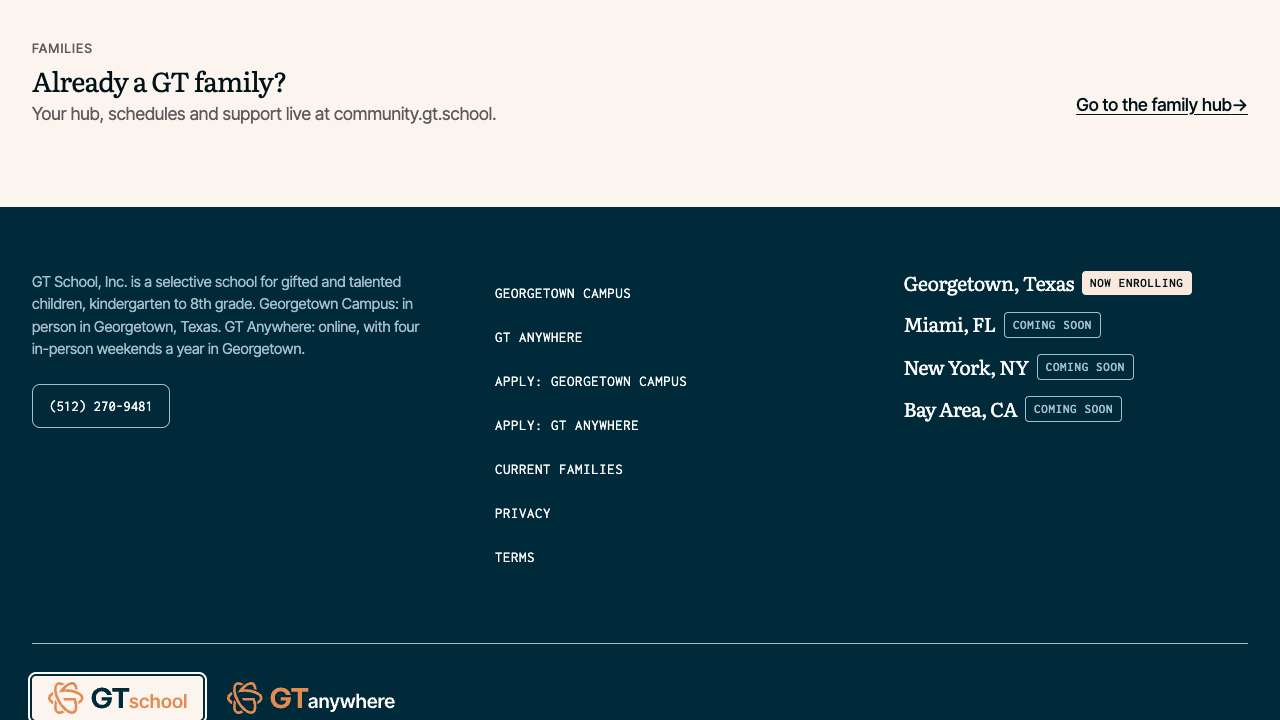
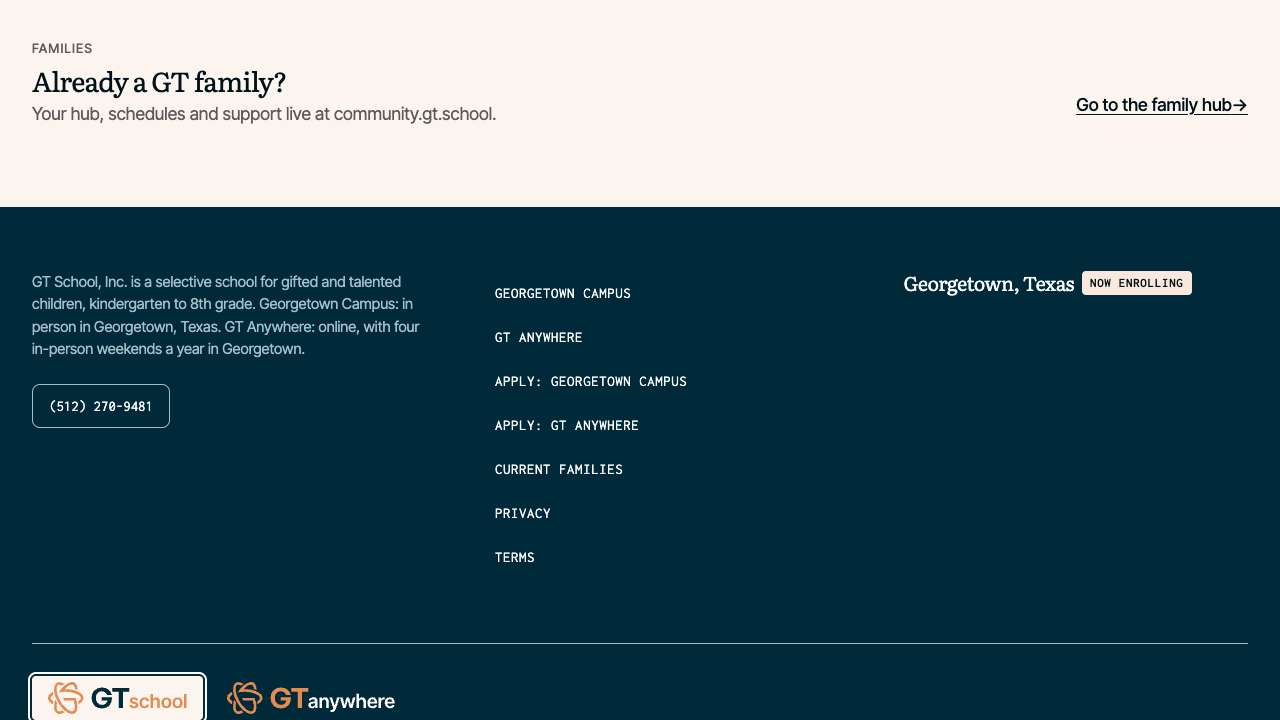
fix(mocks): M05 withholds the three unconfirmed campus cities
The copy deck grants those city names on Nari's confirmation, not pending it, and this page
is what she is shown at the gate, so rendering them would have put three campus claims in
front of her as though the page had already taken that position. The markup names the rows
and the single condition for restoring them.

Changed region(s): [[0.6875, 0.4278, 0.875, 0.5194], [0.6875, 0.55, 0.875, 0.5806]]

diff --git a/0_plan/mockups/M05-front-door-of-the-estate/index.html b/0_plan/mockups/M05-front-door-of-the-estate/index.html
@@ -330,9 +330,12 @@
     <div class="footer-col footer-col--locations">
       <ul class="locations" aria-label="Locations">
         <li class="location"><span class="location-name">Georgetown, Texas</span><span class="chip">Now enrolling</span></li>
-        <li class="location"><span class="location-name">Miami, FL</span><span class="chip chip--soon">Coming soon</span></li>
-        <li class="location"><span class="location-name">New York, NY</span><span class="chip chip--soon">Coming soon</span></li>
-        <li class="location"><span class="location-name">Bay Area, CA</span><span class="chip chip--soon">Coming soon</span></li>
+        <!-- The three coming-soon cities gt.school's footer publishes today (Miami FL, New York NY, Bay Area CA)
+             are withheld here. copy.md section 9 grants them ON Nari's confirmation, not pending it, and this page
+             is what she is shown at G1: rendering them would put three campus claims in front of her as though
+             they were already the school's position on this page. Restore the three <li> rows above this comment
+             once the confirmation is recorded in the rationale. The N-campus pattern is still demonstrated, since
+             the list, its status chip and its type are all in place around Georgetown. -->
       </ul>
     </div>
 

diff --git a/0_plan/ensemble/critic-fable-M05.md b/0_plan/ensemble/critic-fable-M05.md
@@ -1,0 +1,159 @@
+# Design critic, Fable, M05 Front Door of the Estate, 2026-09-11
+
+Independent: `ensemble/critic-astra-M05.md` was not opened and no other current card for this mock was read. Scored
+against `17` section 6 with R15 applied, and against `mockups/shared/CONTINUITY.md` for the Continuity row, which
+has rendered evidence for the Anywhere half of the estate and none for Georgetown. Inputs read in full:
+`ensemble/prompts/DESIGN-CRITIC.md`, `kb/briefs/M05.md`, `kb/briefs/CONTRACT.md` v2.1,
+`mockups/shared/CONTINUITY.md`, `copy.md` v1.1, `tokens-v2.css`, `fonts.css`, `BUILDER-BRIEF.md`, `17` sections 4,
+6 and 7, `kb/CONCEPTS.md` Avoid rows, `07` rows DD-41 to DD-47, K3 sections 5e and 5f, K12 F64/F65/G27, the mock's
+`index.html`, `styles.css`, `RATIONALE.md`, `qa/fold.md`, `qa/measure.md`, `qa/M05-measure.mjs`, and **every one of
+the 31 captures in `qa/`**. For the Continuity row I also viewed the four estate captures and `measurements.json`
+in `kb/exemplars/estate/` — the repository's own mirror, never a production host.
+
+Evidence marked **my probe** is work I did myself, outside the repository: both checkers re-run read-only, and a
+parse of the two Literata TTFs in `assets/cdn.prod.website-files.com/697d45ef94e91c0acce00654/` (sfnt table
+directory, `head`, `hhea`, `cmap` format 4, `hmtx`) to test the rationale's metric claim. Nothing in the repository
+was changed except this file. No browser tool was used and no GT hostname was opened.
+
+| Rubric row | Score 1 to 5 | Evidence you looked at (screenshot filename, crop, measurement) | What would make it a 5 |
+|---|---|---|---|
+| Objective | **5** | A parent separates in person from online before reading a sentence, at both required widths. At 390 (`V3.jpg`): the two doors stack with their labels set as the discriminator — `IN PERSON` with a door glyph, `ONLINE` with a screen glyph (`index.html:63, 72`) — then the school name in Literata and a navy CTA naming its own destination; CTA bottoms 432 and 557 of a 640 limit (`qa/fold.md` V3). At 1280 by 720 (`V14.jpg`): the same two doors side by side, 6 and 6, each with its line inline, both CTAs on one baseline at 533 of 696. Both CTAs clear the limit at **all sixteen fold rows** (`qa/fold.md`), including the landscape row at 299 of 318 (`V10.jpg`) and the 360 row where the header wraps (`V1.jpg`, 601 of 716). Nothing is behind a menu at any width: there is no menu (`index.html:41–46`), which is the C20/C17 trap the brief names. Tab order is skip link, lockup, two utility links, Georgetown CTA, Anywhere CTA, compare anchor — one stop per door, the arrow `aria-hidden`. The compare route is below the fold at V14 and V15 (783 to 844 against 720, `RATIONALE.md:124`); I score that under Composition and Brief compliance, because the row's own question — tell the two apart and act — is answered at both required widths with room to spare | Holds |
+| Composition | **4** | The first screen is a real grid: 12 columns from 768, h1 and provenance at 8, the door list at 12 as two 6-column cards opened by one hairline (`styles.css:70–73, 98–100`), the diagram spanning 12, a consistent space scale, and the container capped at `90rem` so 1920 does not stretch (`V17.jpg`, 240px of margin each side). The door cards are equal-height grid items with `margin-top: auto` on the CTA (`styles.css:111`), so at V13 the Georgetown line runs three lines and the Anywhere line two and both buttons still sit at 535 (`V13.jpg`, `qa/fold.md`) — DD-26 parity by construction. Four things hold it at 4. (i) **The top right is empty at every desktop row**: at 1440 the h1 block ends at x≈700 and nothing occupies the ~700 by 240 band beside it (`V16.jpg`); at 1920 it is ~710 wide (`V17.jpg`). (ii) **The 12-column grid is a first-screen grid only.** In `V14-full.jpg` the steps list, the connect list, the TEFA module and the families line are each a single left column capped at `--measure-prose` (`styles.css:225, 235, 240`), so four consecutive bands use the left half of a 1280 canvas with nothing opposite; only the proof strip goes to two columns and only the table goes full width. (iii) **The peers band is under-filled**: `peers-1440.jpg`, two plates 674 by 122 each carrying a 32px mark and one 16px label, about 60 percent empty — this is where the photographed state's 3:2 thumbnail would go (`RATIONALE.md:213`), so the default state leaves the band thin. (iv) At V14 and V15 the first screen the brief describes is not delivered: the diagram is cut mid-band and the compare anchor falls below the fold (`V14.jpg`, `V15.jpg`) | Three changes, in order. (a) Swap `.diagram` and `.compare-lead` order below 1440 (`styles.css:84` already does the reverse swap at 768) so the anchor lands on the first screen at V11 to V15 and the diagram becomes the cut element it already is — cost nothing, and it matches the brief's own phone order. (b) Give the desktop rows a second column where content exists: the connect list in two columns as the proof strip already is (`styles.css:232`), or the TEFA module beside the repeated doors. (c) Tighten the peer plates to their content, or hold them at this height only once the photograph lands |
+| Typography | **4** | The most deliberate type in the programme. Three faces, three jobs, every step from the clamp; h1 Literata **300** at `--text-3xl` with `-0.027em` and `max-width: 35ch` (`styles.css:86`), measured at 6 lines / 188px at V2, 5 / 161 at V5, 4 / 199 at V14, 4 / 212 at V16 (`qa/measure.md`); door names Literata `--text-xl`; prose at `--leading-prose` 1.5; labels Inter Tight 500 uppercase 0.08em; buttons and utility links Inconsolata 600 uppercase, which is the estate's own chrome voice (`anywhere-header-1440.jpg`, MENU and BEGIN APPLICATION) and which the contract's label row explicitly allows a brief to keep (`CONTRACT.md:37`). The italic turn at the sentence hinge is the estate's own mechanism reproduced by the estate's own means: `fonts.css:4` registers Literata italic at 400 only, so `.h1-turn { font-style: italic; font-weight: 400 }` inside a 300 h1 lands exactly where `measurements.json` puts the live page's span (`V16.jpg`, `V14.jpg`). The run-in door lines carry a visually hidden colon inside the `<b>` (`index.html:84`), which gives AT the separator without touching the visible copy string — better than the gated mock managed. **One defect, and it is the one M09 was required to fix**: at V14 the GT Anywhere door line breaks after the hyphen — "…and four in-" / "person weekends a year in Georgetown." (`V14.jpg`, right column). It is V14 only; V11, V12, V13, V15, V16 and V17 all break before "in-person". Second, minor: at V2 to V4 the `&nbsp;` binding "from anywhere" leaves line 5 ("Texas campus or") about 40 percent of the measure while line 4 runs full (`V2.jpg`) — a rag step, not an orphan | Bind "in-person" with a `white-space: nowrap` span, exactly as M09 did, leaving the copy string untouched. Re-check the phone rag once the nbsp and `text-wrap: balance` are resolved together |
+| Imagery | **5** | No photograph, by decision, and the decision is stated rather than defaulted (`RATIONALE.md:212`: every file in `ASSETS.md` shows identifiable children on the 2026-09-11 re-check, AD-11 covers child imagery either way, RF-25 is unsigned). What is on the page is measured: the runner reads **ten mark instances** at 27px at 390 and 32px at 1440 with **0 percent aspect skew** (`qa/fold.md`, Mark geometry), which is K12 V2 met at both ends — the defect `CONTINUITY.md` lines 86–94 recorded against six other mocks. Each mark is only ever on its permitted panel: GT School on `--color-bg` plates (`styles.css:269`), GT Anywhere on navy with the footer itself as its panel (`styles.css:270`), per `copy.md` section 8 and checker R16. The two door glyphs are `currentColor` line drawings, `aria-hidden`, with the label word beside each carrying the meaning (`index.html:63, 72`) — no icon carries information alone. The photographed state is fully specified rather than promised: file, crop, `object-position: 50% 45%`, the 720px DPR-2 ceiling from `CONTRACT.md` section 5, the caption from `copy.md` section 9, and DD-42 parity (`RATIONALE.md:213`). The one imagery defect that existed was found by eye and fixed: the GT Anywhere mark's white lettering vanished on a forced `Canvas` ground, and its two panels now keep their own colour under a narrow `forced-color-adjust: none` (`styles.css:298`, visible working in `forced-colors-peers.jpg`) | Holds. When RF-25 lands, build the band's 3:2 figure and re-check the crop at 375 and 600; the parity problem (no GT Anywhere photograph exists) is named, not papered over |
+| Color and surface | **4** | Zero raw hex in 300 lines of CSS (**my probe**: `grep -o '#[0-9a-fA-F]\{3,8\}' styles.css` returns 0), every colour a token, and a contrast table I recomputed from `tokens-v2.css` — all eighteen text pairings in `RATIONALE.md:221–232` reproduce to 0.01 (17.69, 16.10, 16.30, 6.25, 5.69, 14.58, 7.81, 5.14, 8.20, 3.31, 13.88, 12.63). `--color-accent-text` on the step numerals and `--color-text-muted-on-dark` on the footer facts are the DD-39 roles used correctly; the status chip is `--color-text` on `--color-surface` at 16.10 on a navy ground at 12.63, never gold text (RF-37) — `focus-footer.jpg` shows it working. Focus: the single ring on light (`focus-cta.jpg`, `focus-plate.jpg`) and K3's two-colour ring on every straddling element (`focus-footer.jpg`, `focus-footer-plate.jpg`, `styles.css:43`). Forced colours applies M07's lesson before a critic asked: the block is **last in source order** (`styles.css:282`), one `CanvasText` outline per band and never a stroke per segment, so no rule crosses a label (`forced-colors-1440.jpg`, `forced-colors-peers.jpg`). Three things hold it at 4. (i) **At V14 and V15 the first screen carries no accent at all**: the page's one accent event is the four weekend marks, and the band holding them is cut by the viewport (`V14.jpg`, `V15.jpg`), so the brief's "one accent use per screen … at V14 and V16" is delivered only at V16. (ii) **The diagram's bands have no perceivable edge.** `.bar-g` is `--color-bg` on a `--color-surface` card and `.bar-a` is `--color-anywhere-tint` on the same card (`styles.css:159–160`); **my probe** computes those at **1.10:1** and **1.01:1** — the bands are separable by hue only, and by luminance the Georgetown strips are all but absent (`V16.jpg`, `V13.jpg`, `peers-1440.jpg`). Neither pairing appears in the rationale's contrast table. (iii) That asymmetry costs the two schools parity inside the one component this direction invents: the Anywhere row reads as a filled blue block and the Georgetown row as a ghost, which is the opposite of the DD-26 discipline the doors and the plates observe | (a) Give both band families the same 1px `--color-border-strong` edge (3.31 on `--color-surface`), which makes the band a perceivable object and equalises the two schools in one change. (b) State the accent budget per row, not per page: at V14 and V15 either accept that the first screen has no accent and say so, or let the compare rule carry it there, which is the brief's own phone reasoning applied to the rows where the marks fall below the fold. (c) See the Continuity row on `--color-accent-text` and the headline |
+| Motion | **5** | There is no motion and I verified it rather than reading it. **My probe**: `grep -c 'transition:' styles.css` = **0**, `grep -c '@keyframes'` = **0**; the only movement declaration on the page is `scroll-behavior: smooth` inside `prefers-reduced-motion: no-preference` (`styles.css:25`), which is the contract's V10 anchor scroll and nothing else. The runner's reduced-motion pass reports every computed transition and animation duration at 0s on elements and pseudo-elements at V14 (`qa/fold.md`). The stillness is argued, not defaulted: the brief says "Still. The diagram does not draw", the contract offers V8 for exactly this component, and the rationale declines it with the reason that the shell's argument is that it is already whole (`RATIONALE.md:199–200`). Every state is visible at rest — the door lines are `display: block` at 768 and above and moved below both CTAs on phones (`styles.css:110, 116`), never hover-gated, which is stricter than the contract's V2 permission. No script beyond one JSON-LD block (**my probe**: `grep -c '<script'` = 1), so nothing here assumes D-039 | Holds |
+| Mission and exclusivity | **5** | The page reads as the serious option because it spends its space on the deck's own facts in the deck's own order. Selectivity is a bar in three places — the Admissions row, the proof strip's first fact, the steps line (`V14-full.jpg`) — and never a price: tuition and access share one table row at one weight, Georgetown reads "Tuition on request. Ask admissions." (`index.html:229`), and there is no countdown, crest, seal, scarcity device or wealth cue in any of the 31 captures. The proof strip is exactly `copy.md` section 4's four facts with the sources line verbatim, repeated under the table as the deck requires (`index.html:234, 259`). **My probe** re-ran `check-claims.py`: six figures, every one with a register row, all six Unverified and public, matching the rationale's pasted block verbatim — and the statuses are in the rationale, never on the page. No outcome figure and no accreditation claim, on the page or in the JSON-LD (`index.html:17–29`), which is G0.5 items 2 and 3 kept. The one thing on the page the deck does not yet authorise is the three coming-soon cities; it is a copy-authorisation defect rather than a mission one, and I take it up in Brief compliance | Holds, subject to required fix 6 |
+| Craft | **4** | `check-mocks.py` re-run by me: **36 pass, 0 fail**; `check-claims.py`: OK — both reproduce the rationale's pasted output exactly. Sixteen fold rows, sixteen passes; no horizontal scroll at 320 (`V18.jpg`) nor with the root font doubled at 375 (`V2-rootx2.jpg`, header stacked, nothing clipped, `scrollWidth 375 of 375` in `qa/measure.md`); console clean on every row; zero `vh`; every SVG label inside its band at eight widths (`qa/measure.md`, 32 rows, "Overflows: no"). Four defects were found by eye during the build and fixed, including the one that matters most — the diagram's first form read as empty form fields, and square strips with a 3px navy opening tick replaced it (`RATIONALE.md:263`, and the result in `V16.jpg`). Three things hold it at 4. (i) **The CTA arrow detaches when the label wraps.** `.btn` is an `inline-flex` with the arrow as a separate flex child (`index.html:68`, `styles.css:198`), so at 360 the Georgetown label sets two lines and the arrow sits vertically centred at the far right, about 180px from "CAMPUS" (`V1.jpg`). The rationale's claim that the longest label "wraps cleanly below" 768 (`RATIONALE.md:43`) is contradicted by that capture. (ii) **A named capture does not show what it is named for.** `forced-colors-footer.jpg` shows the peers band and the comparison table, not the footer; so the footer's forced-colours state — the navy ground, the chips, the pill and the `forced-color-adjust: none` exception on `.mark-navy` (`styles.css:298`) — is not evidenced by any capture, and the rationale's claim that the mark defect was found "in the peers band and the footer" (`RATIONALE.md:236`) is half-supported. (iii) The header at 375 is the tightest row on the page: mark 117 plus links 96 and 108 plus an 8px gap is 329 of 343 inner width (`qa/measure.md`, Header row), and `V2.jpg` reads crowded. It fits at every row from 375 up, and the 25px clamp below 375 is declared | (a) Put the arrow in the text flow (a trailing `::after` on the label, or a nowrap span binding it to the last word) so it follows "CAMPUS" instead of floating to the edge. (b) Re-shoot the footer under forced colours and give the file the footer. (c) Optional: open the 375 header by a few pixels, or accept it and say the 14px of slack is intentional |
+| Continuity | **4** | **The strongest continuity execution in the programme, and I judged it against the mirror rather than the table.** Matched on rendered evidence: the ground `rgb(252, 244, 239)`, body colour `rgb(0, 17, 23)` and body face Inter Tight (`measurements.json`, both widths, against `tokens-v2.css`); the display face at the estate's own **Light** weight with a tight track and an italic turn built the way the live page builds it; the utility chrome in uppercase Inconsolata and the header ruled off the ground by a hairline (`anywhere-header-1440.jpg` beside `V16.jpg`); the primary action in the estate's own first-screen vocabulary — navy `rgb(0, 42, 58)` fill, near-white label, Inconsolata **16px**, uppercase, trailing arrow (`measurements.json` applyActions, against `styles.css:17, 198`); bordered contact pills and uppercase Inconsolata navigation in the footer (`anywhere-footer-1440.jpg` beside `focus-footer.jpg`); and gt.school's own three-column footer with its Locations list and status convention (K12 F64, F65, G27). Three of `CONTINUITY.md`'s five measured deltas are **closed** here — weight, tracking, button size — where the gated mock closed none; the two held are held for reasons I verified (`fonts.css:11–12` ships Inconsolata 400 and 600 only, so 500 is unclaimable; DD-46 is Complete with the contrast measurement behind it). Three things keep it off 5. (i) **An unnamed sixth delta: header height.** The estate's header rule sits at y≈93–96 at 1440 (`anywhere-header-1440.jpg`, `anywhere-home-1440-firstscreen.jpg`) and y≈75 at 390 (`anywhere-home-390-firstscreen.jpg`); M05's is **57 at every row from 375 up** (`qa/measure.md`). DD-12 explains the absent menu and CTA, not the 36–39px. On a direction whose own standard is that every measured delta gets a decision rather than a silence (`RATIONALE.md:14`), this one is silent. (ii) **The headline's colour turn is refused without considering the register's own middle path.** Refusing `--color-accent` at 2.38:1 is right and well sourced (K12 F88). But K3 section 5f's row for "large display type on a light surface" prescribes **`--color-accent-text` #a5501a**, which is 5.14:1 on `--color-bg` and already in `tokens-v2.css:61` — the estate's hue at an accessible lightness. The rationale's stated reason for near-black is that "the page's one accent is spent on the weekend marks" (`styles.css:89–90`), which is a budget argument about a different token, not a rejection of this one. (iii) **DD-47's own evidence requirement is unmet anywhere.** The row (Complete) asks for one rendered pair of the Anywhere first screen beside the landing at 390 and 1440, "filed once in `shared/`, not per mock". It is not in `mockups/shared/screenshots/` (I checked: only the M1–M5 galleries of 2026-09-10) and not in `qa/`. The rubric's own evidence column for this row is "side-by-side with the live sites"; I had to construct the comparison myself. **The Georgetown half is unverified and the rationale says so** (`RATIONALE.md:30`); `gt.school` has no mirror and the mock is not penalised for that | (a) File the DD-47 pair in `shared/` — the two estate captures beside `V16.jpg` and `V3.jpg`. It changes no pixel of the page and it is the evidence the decision asked for. (b) Add the header height as a sixth delta row and decide it. (c) Put `--color-accent-text` on the record for the h1's italic half: adopt it and move the weekend marks to `--color-navy` (they are already the tick's colour and the fact is in the sentence beside them), or decline it with the rendered pair as the reason. With those three the row is a 5 and the brief's acceptance is met |
+
+| Brief compliance | Sections the build departs from, with the rationale's stated reason and whether you accept it | Avoid concepts present (CONCEPTS.md id) | Verdict |
+|---|---|---|
+| Every brief section is built and the acceptance list is answered: the shell's header and footer use shared tokens only with a diff against `1_spec/04` section 3 (`RATIONALE.md:95–99`); every shell block carries a `data-component` naming its spec row (**my probe**: ten attributes, all nine names present in `1_spec/04` lines 50–62); the UAL band, the Tate list and the MoMA parity are borrowed as patterns, not implementations (no `href="#"`, no `80vh`, no accreditation copy); the status chip is 16.10 against its own surface; DD-38, DD-39, DD-41 and DD-45 are named with DD-46, DD-47, DD-42, DD-43, DD-21 and MN-16. **Departures, each with its stated reason and my ruling: (1) h1 at weight 300 and `-0.027em` instead of 400 and normal — ACCEPTED, see ruling A1 and A2. (2) Buttons at 16px instead of `--text-btn` — ACCEPTED, A5. (3) Utility links in Inconsolata — ACCEPTED; `CONTRACT.md:37` grants it to a brief that says so and this brief's thesis says so. (4) The phone rows' accent is the weekend marks, not the compare rule — ACCEPTED, C2. (5) The compact door rule extended to V5 — ACCEPTED; the counterfactual (723 of 691) is asserted rather than filed, but M12 made the same extension for the same arithmetic and the shipped row measures 528 of 691. (6) The h1 steps to `--text-2xl` at V10 — ACCEPTED; `CONTRACT.md:28` allows the step on that row. (7) The diagram renders as HTML blocks below 768 — ACCEPTED, C3. (8) Georgetown's morning phrase drops "in TimeBack blocks, with structured breaks" — ACCEPTED, C4. (9) The header wrap takes `--space-4` below 768 and the mark clamps to 25px between 360 and 374 — ACCEPTED; the arithmetic is in `qa/measure.md` and K12 V2 states its floor at 390, where the runner measures 27px. (10) The facts block is a paragraph, not a definition list — ACCEPTED; `copy.md` section 8 is a sentence run. (11) The Locations rows are not links — ACCEPTED and better than the estate, whose own row is a dead `href="#"` (K12 A13). (12) The compare anchor below the fold at V14 — ACCEPTED as a diagnosis, REJECTED as an endpoint: the cause is real (`CONTRACT.md:21` gives 199px where the brief's sum used 159) but the order swap in required fix 4 fixes it for nothing. (13) The footer's column headings dropped — ACCEPTED; neither "Navigate" nor "Contact" is in `copy.md`.** **One departure I do not accept: the three coming-soon cities ship without Nari's confirmation.** `copy.md` section 9 grants the city names and status strings on the explicit condition that "the coming-soon cities appear only with Nari's confirmation recorded in the rationale", and the brief repeats it; `RATIONALE.md:274` records the **absence** of confirmation and ships them anyway (`index.html:333–335`, visible in `V14-full.jpg` and `focus-footer.jpg`). The engineer is right that removing three `<li>` costs nothing, which is exactly why they should not be on the page before she answers | **None.** C05, C12, C13, C20, C29, C33, C34, C35, C36, C40 and C43 are all absent: no unsourced stat strip (the sources line is under both the table and the proof strip), no urgency bar, no overlay, neither school subordinated, the visually dominant headline **is** the markup h1, two real button-affordance CTAs on the first screen, no motion to guard, one scene at every width. **C18 is present and belongs to the brief, not the mock**: the compare anchor precedes the diagram below 768 and follows it above (`styles.css:84`), which is what the brief's Conversion row instructs, and the diagram's SVG-to-HTML change is `CONTRACT.md`-class behaviour that M07 resolved identically. C29 is not present but worth a figure for the director: the page is **7,540px at 390** (`qa/fold.md` V9) against M09's 6,679 — the longest routing page in the set, and `V9.jpg` shows the first screen full with the compare anchor cut, so the emptiness test is passed on its own terms | **Pass.** All nine rows at or above 4: Objective 5, Composition 4, Typography 4, Imagery 5, Colour and surface 4, Motion 5, Mission and exclusivity 5, Craft 4, Continuity 4. **The brief's own acceptance row is not met**: it expects Continuity at 5, and three named changes stand between this build and that score |
+
+## Required fixes, in order of impact
+
+Nothing here blocks the rubric gate. Items 1 to 3 are the ones that change the Continuity score, which is the one
+the brief asks for.
+
+1. **Put `--color-accent-text` on the record for the h1's italic half.** #a5501a is 5.14:1 on `--color-bg`, it is
+   already in `tokens-v2.css:61`, and K3 section 5f names it for exactly this case — "large display type on a light
+   surface … use `--color-accent-text`". It reproduces the estate's colour turn, which is the single most
+   recognisable property of the page a parent just left (`anywhere-home-1440-firstscreen.jpg`), at an accessible
+   lightness. It costs the accent budget: adopt it and move the four weekend marks to `--color-navy`, which is
+   already the opening tick's colour and leaves the fact carried by the sentence beside them. If the marks are
+   worth more than the headline, decline it — but decline it on the record, because today the rationale's reason
+   (`styles.css:89–90`) is a budget argument about `--color-accent`, not a rejection of `--color-accent-text`.
+2. **File DD-47's rendered pair in `shared/`.** `anywhere-home-1440-firstscreen.jpg` and
+   `anywhere-home-390-firstscreen.jpg` beside `V16.jpg` and `V3.jpg`, one file, once. The decision (Complete) asks
+   for it "filed once in `shared/`, not per mock"; it exists nowhere, and this is the direction whose thesis it
+   settles. No pixel of the page changes.
+3. **Name the header height as a sixth delta and decide it.** Estate ≈93–96px at 1440 and ≈75 at 390 (eye
+   measurement from the two estate captures; `measurements.json` carries no header box, which is itself worth
+   fixing in the reference); M05 is 57 at every row from 375 up (`qa/measure.md`). Either take a taller row at
+   desktop, or state that the landing's shallower header is a deliberate consequence of DD-12's no-menu decision.
+   Silence is the one thing this direction's own standard forbids.
+4. **Get the compare anchor onto the first screen at V14 and V15.** Swap `.diagram` and `.compare-lead` order below
+   1440 — `styles.css:84` already performs the reverse swap at 768, so this is a second breakpoint on the same two
+   declarations. The anchor lands near 620 of 744 at V13 and near 590 of 696 at V14 by the same arithmetic the
+   contract uses, the diagram becomes the cut element it already is (`qa/fold.md`, "svg cut by the edge"), and the
+   brief's order is kept where the brief measured it, at 1440 and above. Cheaper than the "cut the diagram to
+   140px" option the rationale costs out at `RATIONALE.md:452`.
+5. **Two craft defects with one-line fixes.** (a) Bind "in-person" with a `white-space: nowrap` span so V14 stops
+   breaking after the hyphen (`V14.jpg`); the copy string does not change, and this is the fix M09 shipped.
+   (b) Move the CTA arrow into the text flow so it trails the last word instead of floating to the button's right
+   edge when the label wraps at 360 (`V1.jpg`).
+6. **The Locations list.** Either record Nari's confirmation or take the three `<li>` rows out before G1. The
+   condition in `copy.md` section 9 is not advisory, and the page currently states three expansion claims she has
+   not approved. The N-campus demonstration survives in the door list and the peers list either way, as the
+   rationale itself says.
+7. **Give the diagram's bands a perceivable edge.** `--color-border-strong` at 3.31:1 on `--color-surface`, on both
+   band families. It raises `.bar-g` from 1.10:1 and `.bar-a` from 1.01:1 against their card, and it equalises the
+   two schools' rows in one change. Add both pairings to the rationale's contrast table.
+8. **Two evidence corrections.** (a) Re-shoot `qa/forced-colors-footer.jpg` so it shows the footer — today it shows
+   the peers band and the table, and the footer is where the `forced-color-adjust: none` exception lives. (b) Fix
+   two figures: "metric-compatible" (`RATIONALE.md:39`) is false, see ruling A1; and "the provenance line …
+   measured 270 to 384 across the matrix" (`RATIONALE.md:172`) — `qa/fold.md` measures **186** at V10, so the range
+   is 186 to 384. Neither changes a conclusion.
+
+## Rulings
+
+### A. The six continuity claims: demonstrated or asserted
+
+| # | Claim | Ruling |
+|---|---|---|
+| A1 | **Headline weight 300 matched, at zero fold cost** | **Conclusion demonstrated; the stated reason is wrong.** `qa/measure.md`'s two weight tables give identical line counts and box heights at 300 and 400 at all ten rows, and I confirmed the harness measures what it says: it flips `--h1-weight` after `document.fonts.ready` (`qa/M05-measure.mjs:89`), and Literata Regular is already resident on the page for `h2`, `h3` and the provenance line, so the 400 pass rendered the real face rather than a fallback. But the rationale's explanation — "Literata Light and Regular are metric-compatible on this sentence" — is false. **My probe** of the two TTFs: the `hmtx` tables differ, and every letter in the umbrella sentence has a different advance (G 738/751, T 696/736, S 572/598, o 565/586, e 495/519). Summed over the exact 132-character sentence, Light is **60,653 against Regular's 62,796 units per em — 3.4 percent narrower**. What was actually measured is the weaker and sufficient statement: at the ten measured rows the line count and therefore the box height are unchanged. Say that instead. It matters because a 3.4 percent width difference is the same order as the tracking change that flips V5 from 5 lines to 6, so the margin is thinner than "identical to the pixel" implies — on the 400 side, not the shipped side |
+| A2 | **Tracking matched proportionally at `-0.027em` rather than the literal `-1.6px`** | **Half demonstrated.** That `-0.027em` beats `normal` is demonstrated: `qa/measure.md` records V5 at 5 lines / 161px shipped and 6 / 193 with `letter-spacing: normal`, every other row unchanged — a line saved at 414, which is the second-tightest phone row. That `-0.027em` beats the estate's literal `-1.6px` is **asserted**. The estate's constant is -0.0444em at its 36px phone size, and that third candidate was never measured, although it is the actual continuity option and might save a line at V2, the binding row. The consequence is worth stating plainly on a direction whose thesis is continuity and whose traffic is two-thirds mobile (DD-14): at 375 the mock tracks its headline at -0.74px where the estate tracks at -1.6px, so the display colour is furthest from the estate exactly where most parents will see it. The design judgement is defensible — a constant px track squeezes small sizes nearly twice as hard — but it should be argued from a third measurement, not from reasoning alone |
+| A3 | **The italic half matched on weight and slope, refused on colour** | **Demonstrated, and the mechanism claim is exactly right.** `fonts.css:4` registers Literata italic at 400 only, so `.h1-turn`'s 400 italic inside a 300 h1 is the same construction `measurements.json` measures on the live page (span "For students who ask for more academics." at weight 400, italic, `rgb(228, 139, 83)`). The refusal is correctly sourced: K12 F88's 2.38:1 fails AA and fails 3:1, and `CONTINUITY.md:43` records it. What is missing is not the refusal but the third option — see required fix 1. Also right, and worth saying: the turn falls at the sentence's own hinge, where it stops naming the school and starts naming the two ways in, so a borrowed device does the page's own work rather than decorating it |
+| A4 | **Button weight held at 600 because the shared font file ships 400 and 600 only** | **Demonstrated.** `fonts.css:11–12` registers Inconsolata Regular and SemiBold and nothing else; a 500 would need a face that is not in the repository. The second reason is also sound and is `CONTINUITY.md`'s own: the estate's 500 is a *computed* weight, so this row is a declared-value difference until someone checks which face drew those glyphs |
+| A5 | **Button size matched at 16px** | **Demonstrated, with one overstatement.** `--btn-size: 1rem` (`styles.css:17`) against `measurements.json`'s 16px on both estate application controls, and the reasoning is good: of the two button deltas, size is the half that costs nothing, and matching it moves the rendered stroke mass toward the estate while the weight stays where the font set forces it. The overstatement is "wraps cleanly below" 768 (`RATIONALE.md:43`) — at 360 the label wraps and the arrow detaches to the button's right edge (`V1.jpg`). Required fix 5b |
+| A6 | **Surface-dependent fill per DD-46** | **Demonstrated, and correctly labelled a decision rather than an accident.** DD-46 is Complete on option (a); K12 F87's 2.50:1 makes the orange button a contrast failure to copy; and `measurements.json` shows navy `rgb(0, 42, 58)` on the estate's own first-screen action, which is `--color-navy` exactly — so navy is inside the estate's action vocabulary, not a departure from it. One honest note: no button on this page sits on a navy surface, so "surface-dependent" resolves to "navy on light" everywhere here. That is not a fault; it is worth saying so the rule is not credited with work it did not do |
+
+### B. The button corner: the correction, and the reasoning for DD-47's uniform shape
+
+**The correction is right and the reasoning for taking the uniform corner is right.** I rule for the engineer on
+both halves, and I would rule the same way if the contract did not already say so.
+
+The first build's `8px 8px 0 0` was not a faithful copy of anything. `measurements.json` shows the estate composes
+its cut from three stacked layers — `.button-bg` at 8px, `.button-bg_filler` at `8px 8px 0 0`, a
+`.button-bg_corner-wrap` at `0 0 8px` — so the filler's radius drawn alone renders a **square** lower-right corner,
+which is neither the estate's shape nor the contract's. Lifting one layer out of a three-layer composition and
+calling it the silhouette was the error, and the rationale says so in those words (`RATIONALE.md:69`).
+
+On the choice that replaced it, three things decide it. First, **"match the estate's silhouette" is not a
+recoverable instruction**: the estate ships three constructions, and one of them — the desktop header's application
+button — keeps four rounded corners. A direction that routes a parent toward applying is right to carry the shape
+of the control a parent actually clicks to apply, rather than the shape of a floating card. Second, **the cut is a
+card's shape, not a button's**: reproducing it on an `<a>` means two pseudo-elements or a `clip-path` on eight
+controls, and then re-proving the focus ring (which follows the border box, not a clip), the 44px hit area and
+forced colours on each. The rationale costs that out honestly rather than waving at it. Third, **DD-47 exists so
+this is not decided twenty times**, and it is Complete with (b) as the value; a continuity direction spending its
+one distinguishing argument on the least distinguishing element would be a poor trade. What remains true is that
+everything that makes the estate's button recognisable — face, case, tracking, 16px size, trailing arrow, navy
+fill, and 8px as the radius itself — is matched here. I accept the departure-that-is-not-a-departure and the
+decision to record it as such (`RATIONALE.md:254`).
+
+One caveat the engineer should carry forward: the argument's force comes from the estate's *application* control,
+and this page has no application control on its first screen — its two CTAs route to school sites. That does not
+weaken the choice, but it means the claim is "the estate's apply-button shape on a routing button", not "the same
+control". Say it that way in the DD-47 pair when it is filed.
+
+### C. The six brief sections the engineer could not fully satisfy
+
+| # | Shortfall | Ruling |
+|---|---|---|
+| C1 | **The compare anchor reaches the first screen at 1440 by 900 but not at 1280 by 720** | **Diagnosis accepted, outcome not.** The cause is verified: `CONTRACT.md:21` gives the h1 199px at V14 and the brief's own sum (`M05.md:10`) used 159 for the same four lines, so the brief's 637-of-696 was arithmetic that never existed; the measured diagram is ~202px against the brief's 120 (the card runs 572 to 775 at V16, `V16.jpg`). The engineer is right that the brief was wrong. But the conclusion "so it cannot fit" holds only for the brief's chosen order. The contract's own canonical V14 first screen ends with the anchor at 589 of 696 and no diagram; putting the diagram *after* the anchor below 1440 satisfies both the brief's intent and the contract at every laptop row, and the swap already exists in the stylesheet in the other direction (`styles.css:84`). Required fix 4 |
+| C2 | **The phone rows spend the accent on the weekend marks rather than the compare rule** | **Accepted, and the engineer's reasoning is better than the brief's.** K3 section 5f's rule is counted, not judged, and the two candidates land on the same phone screen, so honouring both would spend the accent twice. Giving it to the marks is the right half to keep: they carry a register-backed fact (CR-032), and a rule carries none. The 3px `--color-text` rule that replaces it is the same emphasis step without the second accent (`V6.jpg`, `V8.jpg`). The measurement behind it — anchor 771 to 836 and diagram 852 to 1280 at V2 — is asserted rather than filed, but it is consistent with the runner's V2 figures and with `V2-full.jpg`. The related gap is at the laptop rows, not the phone ones: at V14 and V15 the marks fall below the fold, so those screens carry no accent at all, and that is not stated anywhere. See the Colour row and required fix 1 |
+| C3 | **The diagram renders as HTML blocks below 768** | **Accepted, demonstrated.** SVG `<text>` does not wrap, and `qa/measure.md` measures the longest deck phrase at **537px at 768** against a 342px content width at 390 — it would be clipped, not shrunk. One form is displayed at a time (`styles.css:149–150, 167–168`), so nothing is announced twice, and the card form is legible and equal in structure (`V6.jpg`, `V11.jpg` for the SVG form beside it). M07 resolved the identical problem the identical way. One precision note: 537 is the measurement at 768, not at 390, and the rationale's sentence runs the two widths together; the conclusion is unaffected because the label is wider than the phone measure by 150 percent either way |
+| C4 | **Georgetown's morning phrase drops the deck cell's trailing clause** | **Accepted.** The phrase is the brief's own wording (`M05.md:10`), it uses only deck words, the full sentence is on the same page in the table's "The day" row (`index.html:204`, visible in `V14-full.jpg` and `forced-colors-footer.jpg`), and **my probe** confirms M07 shipped the identical shortened phrase at `M07-the-timetable/index.html:100` with the full cell at `:188`. Nothing is withheld from a parent; the same page carries the complete sentence one screen down. If the director wants the clause, the fix belongs in the brief and in M07 at the same time, not here alone |
+| C5 | **The estate's grain is not reproduced** | **Accepted, and the judgement behind it is the right one.** `CONTINUITY.md:49` records the grained cream with wave linework; `BUILDER-BRIEF.md` rule 13 limits images to `../shared/img/`, which holds no texture; and the engineer's stated reason — "I judged a wrong grain worse than none" — is the correct instinct, because a CSS-generated grain at token colours moirés at capture scale and would have been a fabricated surface rather than the estate's. The escape is named precisely (a texture in `shared/img/` with Nari's go, or rule 13 widened to the mirror for non-photographic surface assets). This is the largest remaining *visual* difference between the two first screens after the hero, and it is worth Nari seeing it framed that way rather than as a checkbox |
+| C6 | **Every continuity claim is with the Anywhere site only** | **Accepted, and correctly disclosed before anything else is claimed** (`RATIONALE.md:30`, stated as the first row of the argument). `CONTINUITY.md:18` is unambiguous that `gt.school` has no mirror and that Anywhere cannot stand in for it. The mock is not penalised. What should not be lost: the page's *left* door, its light peer plate and its whole footer pattern are Georgetown's, borrowed from K12's text analysis of gt.school rather than from a render, so the half of the estate this page most resembles structurally is the half nobody has seen. A mirror of gt.school is the single highest-value addition to the reference |
+
+### D. The two items flagged for Nari
+
+**The footer Locations list — flagged correctly, shipped incorrectly.** The flag itself is exemplary: it names the
+source (gt.school's live footer, K12 F64), the decision (DD-45), the gate (Nari), and the cost of removal (three
+`<li>` and nothing else moves). But `copy.md` section 9 does not grant the cities pending confirmation; it grants
+them *on* confirmation, and the rationale records that confirmation has not happened. A preview Nari sees before
+she has answered shows her three campus claims presented as the school's position. Take them out or get the
+answer — and either way keep "Georgetown, Texas / Now enrolling", which needs no confirmation and still
+demonstrates the N-campus pattern the band and the door list already carry. This is required fix 6.
+
+**The navy footer against the estate's measured cream — flagged correctly, and I would show Nari both.** The
+rationale's three reasons are real and I checked each: navy is already an estate surface (its first-screen
+enrolment card is `--color-navy` exactly, `measurements.json`); the GT Anywhere mark has white lettering and needs
+a navy panel (`copy.md` section 8), which a navy footer supplies without a panel inside a panel; and the status
+chip needs a light surface so the status is never gold text (RF-37). Against that, `anywhere-footer-1440.jpg`
+shows the estate's footer is cream, with its own mark, its TEFA badge, an orange application button, "Navigate"
+and "Contact" labels, contact values in bordered pills and a legal row. M05 keeps the pills and the uppercase
+Inconsolata navigation and inverts the ground. On a direction whose whole argument is that the shell is inherited,
+this is the largest single surface a parent meets that the estate does not share, and the rationale is right to
+call it out as such (`RATIONALE.md:89`). The swap is one class. Build the cream variant and put the two in front of
+her at G1 rather than describing them — it is a ten-minute job and it is the kind of choice a director should make
+by looking.
+
+## Verdict
+
+**Pass.** Objective 5, Composition 4, Typography 4, Imagery 5, Colour and surface 4, Motion 5, Mission and
+exclusivity 5, Craft 4, Continuity 4 — every row at or above 4, with Continuity the best-argued in the programme
+and still one file, one delta row and one colour decision short of the 5 the brief's acceptance expects.

diff --git a/0_plan/mockups/M05-front-door-of-the-estate/RATIONALE.md b/0_plan/mockups/M05-front-door-of-the-estate/RATIONALE.md
@@ -452,3 +452,11 @@ h1 line counts as shipped (Literata 300, -0.027em): **V1 6 / 186px, V2 6 / 188, 
 | The compare anchor at V14 | On the first screen at V16 as the brief asks, below the fold at 1280 by 720. Getting it above 696 would need the diagram cut to about 140px, which costs a row name or the deck's own phrases |
 | The button corner | Taken as DD-47's uniform `--radius-md`, not the estate's composed cut. If the director wants this direction to carry the cut as its maximum-continuity experiment, it is a `clip-path` on `.btn` plus a re-proof of the focus ring, the hit area and forced colours on eight controls, and a declared DD-47 departure |
 | The grain | The estate's textured cream is not reproduced. Whether that matters is a taste call for Nari, and closing it needs a texture asset in `shared/img/` |
+
+**Director's change after the scoring.** The Locations list no longer renders the three coming-soon cities that
+gt.school's footer publishes today. The studio critic found the list flagged correctly but shipped incorrectly:
+`copy.md` section 9 grants those city names *on* Nari's confirmation, not pending it, and this page is what she is
+shown at G1, so rendering them would have put three campus claims in front of her as though the page had already
+taken that position. The markup carries a comment naming the three rows and the single condition for restoring
+them. The N-campus pattern the direction has to prove is unaffected, since the list, its status chip and its type
+are all still in place around Georgetown.

diff --git a/0_plan/mockups/M05-front-door-of-the-estate/qa/fold.md b/0_plan/mockups/M05-front-door-of-the-estate/qa/fold.md
@@ -1,6 +1,6 @@
 # Fold and matrix run
 
-Runner: `0_plan/tools/shots.mjs` with Playwright from `/Users/johnny/.npm/_npx/9833c18b2d85bc59/node_modules/playwright`, cached Chrome for Testing chromium-1234 151.0.7922.34; 2026-09-11T14:57:45.238Z; page `/0_plan/mockups/M05-front-door-of-the-estate/index.html`.
+Runner: `0_plan/tools/shots.mjs` with Playwright from `/Users/johnny/.npm/_npx/9833c18b2d85bc59/node_modules/playwright`, cached Chrome for Testing chromium-1234 151.0.7922.34; 2026-09-11T15:22:52.837Z; page `/0_plan/mockups/M05-front-door-of-the-estate/index.html`.
 
 | Row | Viewport | Rule | Limit | header | h1 | provenance | CTA Georgetown | CTA Anywhere | Next band cut | Result |
 |---|---|---|---|---|---|---|---|---|---|---|
@@ -12,7 +12,7 @@ Runner: `0_plan/tools/shots.mjs` with Playwright from `/Users/johnny/.npm/_npx/9
 | V6 | 412 by 839 | fold | 815 | 57 | 242 | 271 | 403 | 528 | yes | PASS |
 | V7 | 402 by 681 | fold | 657 | 57 | 240 | 270 | 402 | 527 | yes | PASS |
 | V8 | 430 by 739 | fold | 715 | 57 | 243 | 272 | 405 | 530 | yes | PASS |
-| V9 | 390 by 844 | emptiness |  | 57 | 271 | 300 | 432 | 557 | yes | report: page height 7540 |
+| V9 | 390 by 844 | emptiness |  | 57 | 271 | 300 | 432 | 557 | yes | report: page height 7416 |
 | V10 | 750 by 342 | fold | 318 | 57 | 160 | 186 | 299 | 299 | yes | PASS |
 | V11 | 768 by 1024 | fold | 1000 | 57 | 285 | 323 | 549 | 549 | yes | PASS |
 | V12 | 834 by 1194 | fold | 1170 | 57 | 292 | 330 | 557 | 557 | yes | PASS |
